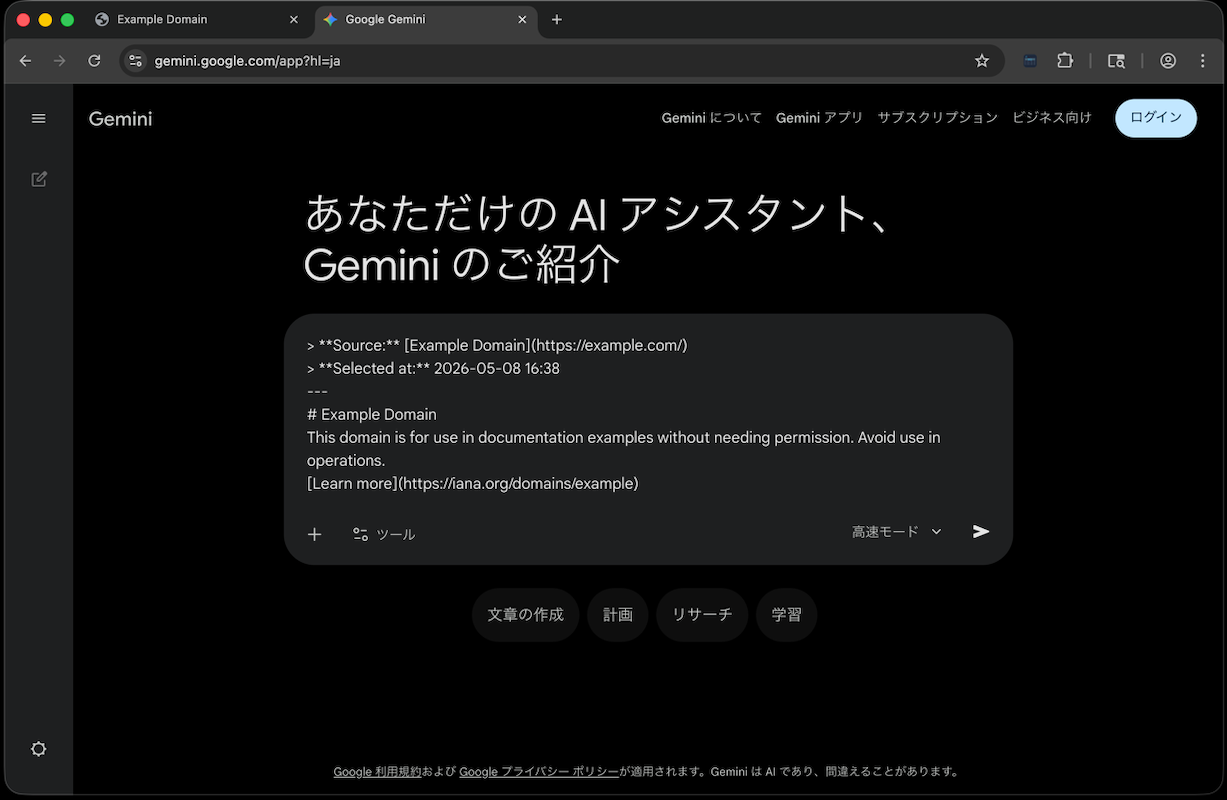
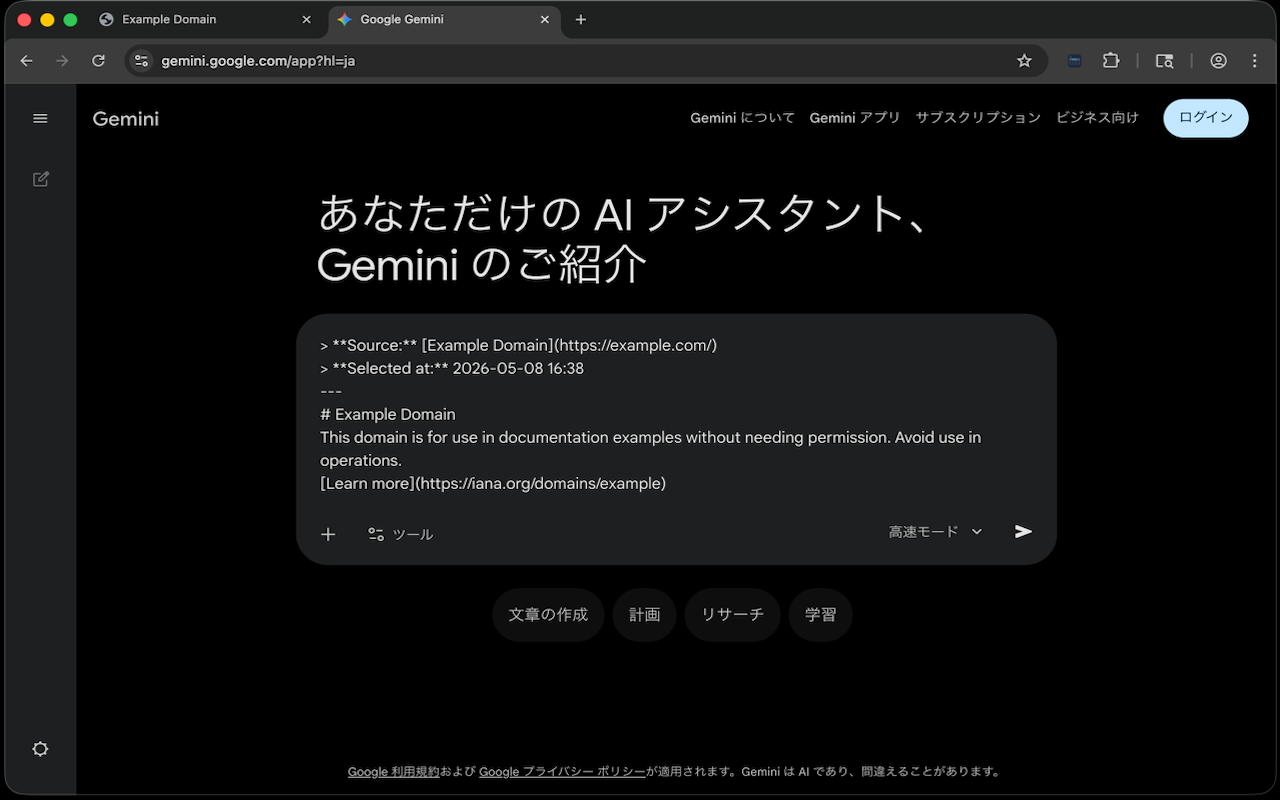
chore: update atore-assets

diff --git a/PRIVACY.md b/PRIVACY.md
@@ -14,7 +14,33 @@ This extension does **not** collect, store, or transmit any personal information
 
 1. When you select text on a page and use the context menu, the extension injects a content script into the current tab.
 2. The content script reads your text selection, converts it to Markdown locally using the bundled Turndown library, and writes the result to your system clipboard.
-3. No data leaves your browser at any point.
+3. If you choose the "Open in Gemini" option, the converted Markdown text is passed within the extension (via `chrome.runtime.sendMessage`) to the service worker, which opens a Gemini tab and auto-fills the input area.
+4. No data leaves your browser at any point.
+
+## Single Purpose Description
+
+This extension has a single, narrowly-scoped purpose:
+
+**Convert user-selected HTML content on a web page into Markdown format and copy it to the clipboard, with an optional convenience feature to open Google Gemini and auto-fill the converted text.**
+
+All functionality serves this single purpose. There are no unrelated features, no analytics, no advertising, and no background data collection.
+
+## Host Permission Justification
+
+| Host | Reason |
+|------|--------|
+| `https://gemini.google.com/*` | Required solely to inject a script into the Gemini app page that auto-fills the converted Markdown into the chat input field. This permission is used only when the user explicitly selects the "Copy as Markdown & Open in Gemini" context menu item. No data is read from or sent to Gemini — the extension only writes the locally-converted Markdown text into the page's input element. |
+
+## Remote Code
+
+**This extension does NOT use remote code.** All code is bundled within the extension package:
+
+- All JavaScript (including third-party libraries Turndown and turndown-plugin-gfm) is shipped as static files inside the extension package.
+- No code is fetched, loaded, or executed from remote servers at runtime.
+- The extension does not use `eval()`, `new Function()`, or any mechanism that dynamically executes code from external sources.
+- No `<script>` tags with remote `src` attributes are injected into any page.
+
+The Turndown and turndown-plugin-gfm libraries were downloaded from [unpkg CDN](https://unpkg.com) as static build artifacts and are included as local files in the `lib/` directory. They are never fetched from the network at runtime.
 
 ## Permissions Justification
 
@@ -24,6 +50,7 @@ This extension does **not** collect, store, or transmit any personal information
 | `scripting` | To inject the conversion script into the active tab when you use the menu |
 | `activeTab` | To access the current tab's selection only when you invoke the extension |
 | `clipboardWrite` | To copy the converted Markdown to your clipboard |
+| `host_permissions` (`https://gemini.google.com/*`) | To auto-fill the converted Markdown into Gemini's input field — only when the user explicitly selects "Copy as Markdown & Open in Gemini" |
 
 ## Third-Party Libraries
 

diff --git a/README.md b/README.md
@@ -71,8 +71,8 @@ Lorem ipsum dolor sit amet...
 | File | Role |
 |------|------|
 | `manifest.json` | MV3 設定、権限 |
-| `background.js` | コンテキストメニュー作成、スクリプト注入 |
-| `content.js` | 選択範囲の取得、前処理、Markdown変換、クリップボードコピー |
+| `background.js` | コンテキストメニュー作成、スクリプト注入、Gemini 連携制御 |
+| `content.js` | 選択範囲の取得、前処理、Markdown変換、クリップボードコピー、メッセージ送信 |
 | `lib/turndown.js` | Turndown ライブラリ (unpkg CDN ビルド) |
 | `lib/turndown-plugin-gfm.js` | GFM プラグイン (テーブル・打ち消し線・タスクリスト) |
 
@@ -85,6 +85,23 @@ Lorem ipsum dolor sit amet...
 ## Privacy
 
 この拡張機能は一切のデータを外部に送信しません。すべての処理はローカル（ブラウザ内）で完結します。詳細は [PRIVACY.md](PRIVACY.md) を参照ください。
+
+## Development
+
+### リリース手順
+
+```bash
+# 現在のバージョンで ZIP 作成
+./scripts/release.sh
+
+# パッチバージョンアップ + ZIP + git tag
+./scripts/release.sh --bump patch --tag
+
+# 動作確認（実際の変更なし）
+./scripts/release.sh --bump patch --tag --dry-run
+```
+
+`manifest.json` の `version` を自動更新し、ストア提出用の ZIP を作成します。オプションで git commit + tag も可能です。
 
 ## License
 
